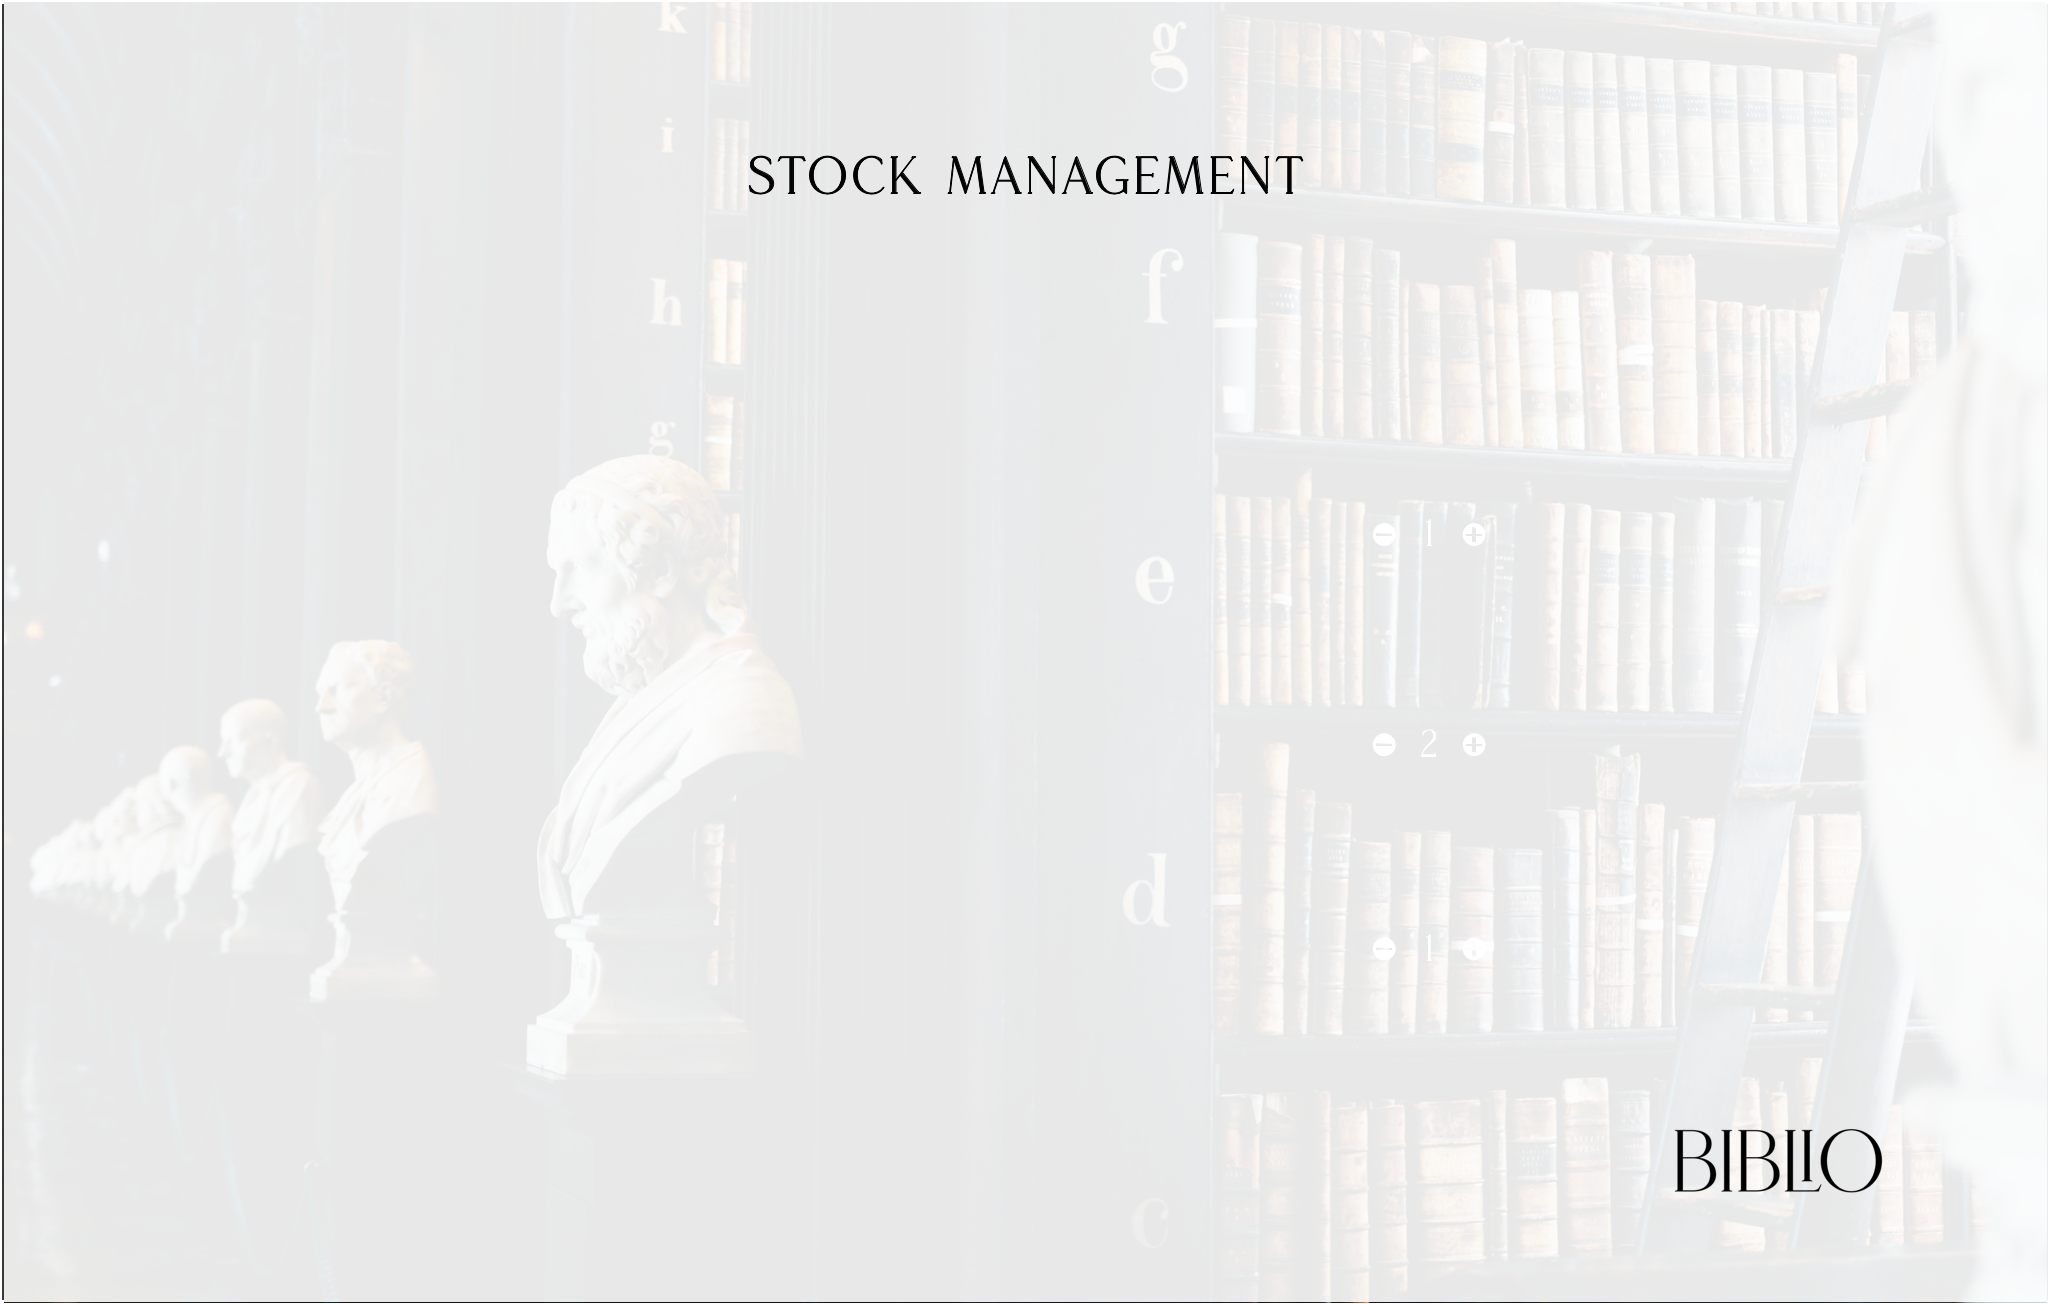
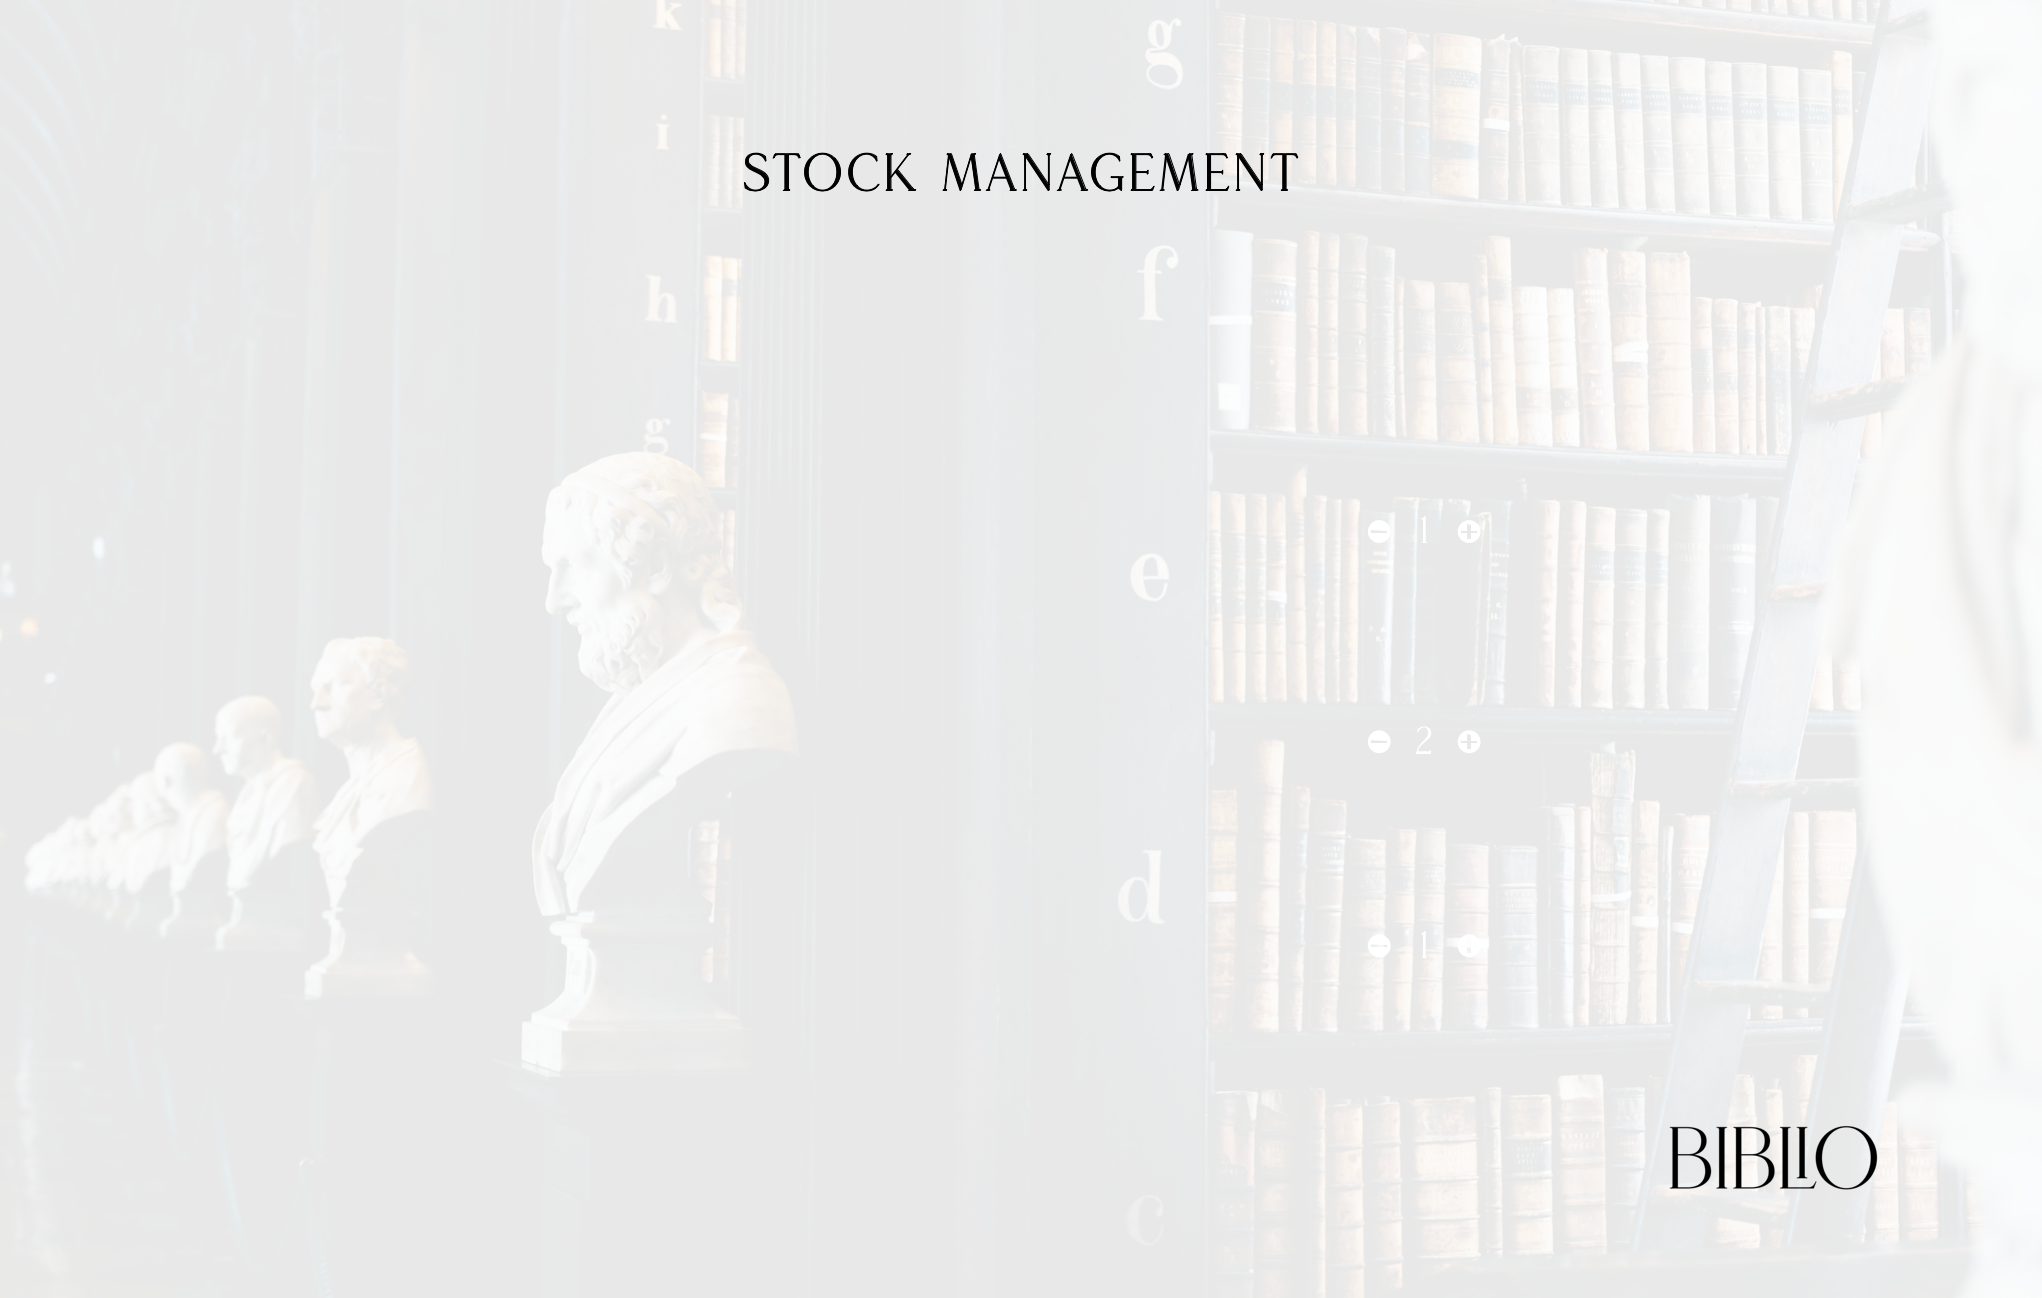
Add finished Admin Stock Page

Changed region(s): [[0.3702, 0.0924, 0.617, 0.1541], [0.8022, 0.8629, 0.9256, 0.9245]]

diff --git a/frontend/adminStock.html b/frontend/adminStock.html
@@ -1,0 +1,69 @@
+<!DOCTYPE html>
+<html lang="en">
+<head>
+    <meta charset="UTF-8">
+    <meta name="viewport" content="width=device-width, initial-scale=1.0">
+    <title>Stock</title>
+    <link rel="normalize" href="css/normalize.css">
+    <link rel="stylesheet" href="css/adminStock.css">
+    <link href="https://fonts.cdnfonts.com/css/roseritta" rel="stylesheet">
+</head>
+<body>
+    
+    <div class="background">
+        <img class="background" src="/BIBLIO/frontend/webimages/stock.png" alt="Background of profile page">
+        <div id="overlay" class="overlay"></div>
+    </div>
+
+    <div class="menuBar" onclick="openNav()">
+
+        <img class="menuImage" src="/BIBLIO/frontend/webimages/menu black.png" alt="menu bar">
+
+    </div>
+
+    <div id="mySidenav" class="sidenav">
+        
+        <a href="javascript:void(0)" class="closebtn" onclick="closeNav()">&times;</a>
+
+        <img class="sideMenu" src="/BIBLIO/frontend/webimages/menubar.png" alt="">
+
+        <a href="/BIBLIO/frontend/adminRequest.html">
+            <button class="requestsButton">REQUESTS</button>
+        </a>
+
+        <a href="/BIBLIO/frontend/adminStock.html">
+            <button class="stockButton">STOCK</button>
+        </a>
+
+        <a href="/BIBLIO/frontend/landing.html">
+            <button class="logoutButton">LOG OUT</button>
+        </a>
+
+    </div>
+
+    <script>
+
+        function openNav() {
+
+            document.getElementById("mySidenav").style.width = "400px";
+            document.getElementById("overlay").style.display = "block";
+        }
+          
+        function closeNav() {
+
+            document.getElementById("mySidenav").style.width = "0";
+            document.getElementById("overlay").style.display = "none";
+        }
+
+    </script>
+
+    <div class="stockSpace">
+
+    </div>
+
+    <a href="/BIBLIO/frontend/adminRequest.html">
+        <img class="requestImage" src="/BIBLIO/frontend/webimages/requests button.png" alt="Manage Request Button">
+    </a>
+
+</body>
+</html>

diff --git a/frontend/css/adminStock.css b/frontend/css/adminStock.css
@@ -1,0 +1,151 @@
+* {
+
+    margin: 0px;
+}
+
+body {
+
+    position: relative
+}
+
+.background {
+
+    width: 100%;
+    height: 100%;
+    z-index: -99999;
+}
+
+.overlay {
+    position: absolute;
+    top: 0;
+    left: 0;
+    width: 100%;
+    height: 100%;
+    background: rgba(0, 0, 0, 0.5);
+    display: none;
+    z-index: 99;
+}
+
+.menuBar {
+
+    position: absolute;
+
+    left: 7vw;
+    top: 15vh;
+    
+}
+
+.menuImage {
+
+    height:15px;
+    width: auto;
+}
+
+.sideMenu {
+
+    position: absolute;
+
+    height: 100vh;
+}
+
+.sidenav {
+
+    height: 100%;
+    width: 0;
+    position: fixed;
+    z-index: 100;
+    top: 0;
+    left: 0;
+    overflow-x: hidden;
+    transition: 0.3s;
+}
+
+.sidenav .closebtn {
+
+    position: absolute;
+    top: 10px;
+    right: 20px;
+    font-size: 20px;
+    color: white;
+    margin-left: 50px;
+    z-index: 101;
+}
+
+button {
+
+    position: absolute;
+
+    border-radius: 25px;
+    z-index: 101;
+
+    padding-left: 30px;
+    padding-right: 30px;
+    padding-top: 9px;
+}
+
+
+.requestsButton {
+
+    font-family: 'Roseritta', sans-serif;
+    background-color: black;
+    color: white;
+    font-size:2rem;
+
+    border: 1px solid white;
+
+    left: 6.7vw;
+    top: 50vh;
+}
+
+.stockButton {
+
+    font-family: 'Roseritta', sans-serif;
+    color: black;
+    font-size:2rem;
+
+    border: 1px solid black;
+
+    left: 8.4vw;
+    top: 63vh;
+}
+
+.logoutButton {
+
+    font-family: 'Roseritta', sans-serif;
+    background-color: black;
+    color: white;
+    font-size:2rem;
+
+    border: 1px solid white;
+
+    left: 7.3vw;
+    top: 75vh;
+}
+
+.stockSpace {
+
+    position: absolute;
+
+    background-color: white;
+
+    border: 2px solid black;
+
+    width: auto;
+    height: auto;
+
+    left: 15vw;
+    right: 15vw;
+    top: 25vh;
+    bottom: 30vh;
+
+}
+
+.requestImage {
+
+    position: absolute;
+
+    width: 11rem;
+
+    left: 7vw;
+    bottom: 10vh;
+}
